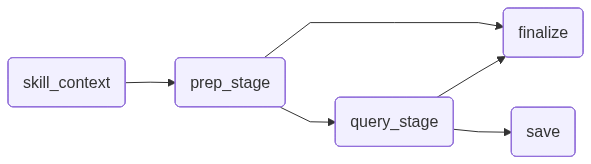
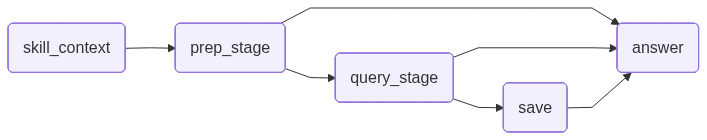
Rename

diff --git a/src/agents/orchestrator/nodes.py b/src/agents/orchestrator/nodes.py
@@ -372,7 +372,7 @@ class OrchestratorNodes:
         }
 
     def save(self, state: OrchestratorState) -> dict[str, Any]:
-        """Persist a validated SQL result as the terminal orchestrator artifact."""
+        """Persist a validated SQL result before the answer node returns it."""
         if state.sql_output is None:
             content, artifact = build_sql_failure_result(
                 orchestrator_run_from_state(state),
@@ -397,15 +397,15 @@ class OrchestratorNodes:
             ],
         }
 
-    def finalize(self, state: OrchestratorState) -> dict[str, Any]:
-        """Build the terminal orchestrator artifact for blocked or failed runs."""
+    def answer(self, state: OrchestratorState) -> dict[str, Any]:
+        """Build or return the terminal user-facing orchestrator answer."""
         if state.content and state.artifact:
             return {
                 "content": state.content,
                 "artifact": state.artifact,
                 "agent_artifacts": state.agent_artifacts,
                 "active_agent": state.active_agent,
-                "messages": [stage_report_message("finalize", "Finalize reused the existing terminal result.")],
+                "messages": [stage_report_message("answer", "Answer reused the existing terminal result.")],
             }
 
         run = orchestrator_run_from_state(state)
@@ -430,7 +430,7 @@ class OrchestratorNodes:
                 "artifact": artifact,
                 "agent_artifacts": state.agent_artifacts,
                 "active_agent": PREP_AGENT_NAME,
-                "messages": [stage_report_message("finalize", f"Finalized prep failure: {artifact.get('last_error')}")],
+                "messages": [stage_report_message("answer", f"Answered prep failure: {artifact.get('last_error')}")],
             }
 
         content, artifact = build_sql_failure_result(
@@ -444,8 +444,8 @@ class OrchestratorNodes:
             "active_agent": (VALIDATION_AGENT_NAME if state.validation_feedback is not None else SQL_STAGE_NAME),
             "messages": [
                 stage_report_message(
-                    "finalize",
-                    f"Finalized query-stage result with status={artifact.get('status')} and completion_reason={artifact.get('completion_reason')}.",
+                    "answer",
+                    f"Answered query-stage result with status={artifact.get('status')} and completion_reason={artifact.get('completion_reason')}.",
                 )
             ],
         }
@@ -454,7 +454,7 @@ class OrchestratorNodes:
 def route_after_prep_stage(state: OrchestratorState) -> str:
     """Route to SQL only after prep produces a usable database target."""
     prep_output = None if state.prep_output is None else PrepStageOutput.model_validate(state.prep_output)
-    return "query_stage" if prep_output is not None and prep_output.status == "prepared" else "finalize"
+    return "query_stage" if prep_output is not None and prep_output.status == "prepared" else "answer"
 
 
 def route_after_execute_sql(state: OrchestratorState) -> str:
@@ -479,8 +479,8 @@ def route_after_validate(state: OrchestratorState) -> str:
 
 
 def route_after_query_stage(state: OrchestratorState) -> str:
-    """Route a completed query stage to save or terminal finalization."""
+    """Route a completed query stage to save or terminal answering."""
     sql_output = sql_output_from_state(state)
     if sql_output is not None and sql_output.status == "complete" and state.validation_feedback is None:
         return "save"
-    return "finalize"
+    return "answer"

diff --git a/src/agents/orchestrator/graph.py b/src/agents/orchestrator/graph.py
@@ -44,7 +44,7 @@ def build_orchestrator_graph(
     builder.add_node("prep_stage", nodes.prep_stage_graph())
     builder.add_node("query_stage", nodes.query_stage_graph())
     builder.add_node("save", nodes.save)
-    builder.add_node("finalize", nodes.finalize)
+    builder.add_node("answer", nodes.answer)
     builder.add_edge(START, "skill_context")
     builder.add_edge("skill_context", "prep_stage")
     builder.add_conditional_edges(
@@ -52,7 +52,7 @@ def build_orchestrator_graph(
         route_after_prep_stage,
         {
             "query_stage": "query_stage",
-            "finalize": "finalize",
+            "answer": "answer",
         },
     )
     builder.add_conditional_edges(
@@ -60,11 +60,11 @@ def build_orchestrator_graph(
         route_after_query_stage,
         {
             "save": "save",
-            "finalize": "finalize",
+            "answer": "answer",
         },
     )
-    builder.add_edge("save", END)
-    builder.add_edge("finalize", END)
+    builder.add_edge("save", "answer")
+    builder.add_edge("answer", END)
     return builder.compile(name=name)
 
 